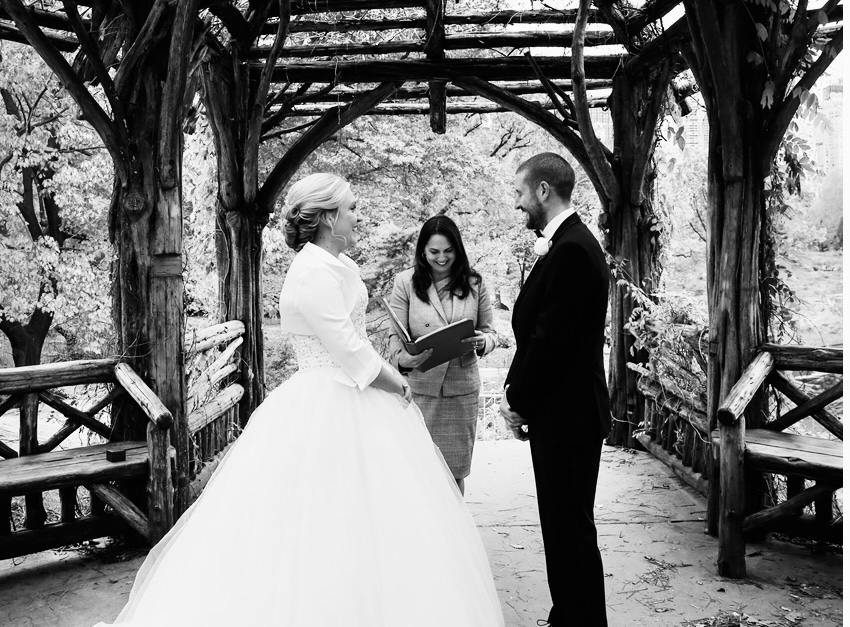
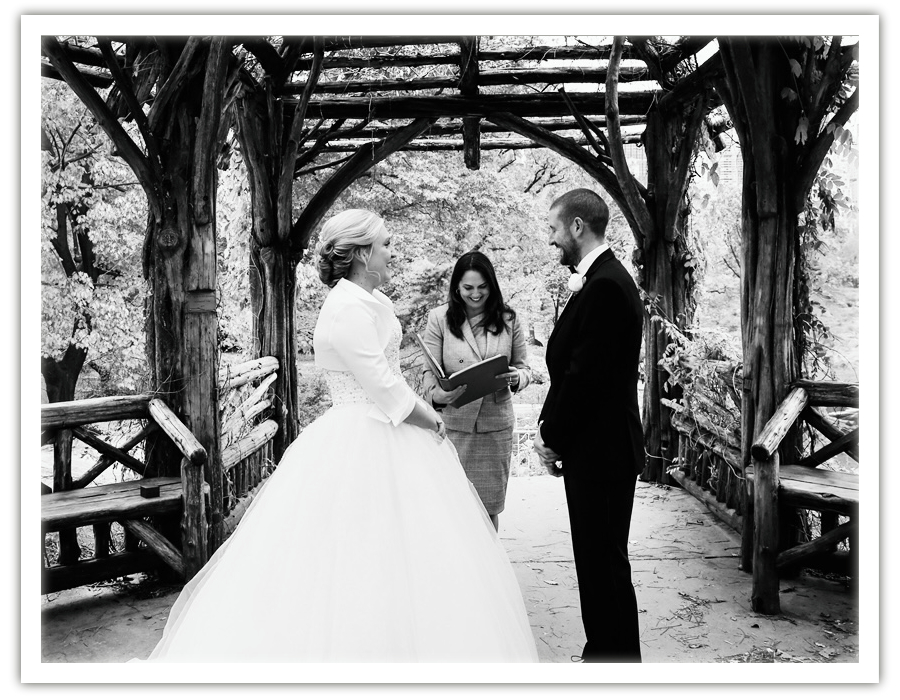
Central park home changes part1 (#42)
* new imagews - cemtral park

* new images - cemtral park

---------

diff --git a/New_York_Central_Park_Weddings.html b/New_York_Central_Park_Weddings.html
@@ -93,58 +93,111 @@
 
     <div class="container">
         <div class="column" style="margin-bottom: 50px;height: 100px;">
-jibber jabber jibber jabber jibber jabber jibber jabber jibber jabber jibber jabber jibber jabber jibber jabber jibber jabber jibber jabber jibber jabber 
+            There is something magical about getting married in Central Park. It can be a lot more affordable and it is
+            the best location in New York City if you are eloping! There are multiple locations to choose from. From Bow
+            Bridge to Bethesda Castle, each spot looks like a rom-com set! There are wooden structures, cast iron
+            structures (all over 100 years old) trees, gardens, lakes and bridges but you are still in the heart of New
+            York City. All locations are perfect year round. Here are some of my favorite locations!
         </div>
     </div>
 
     <div class="container">
         <div class="column">
-            <img src="https://picsum.photos/id/10/400/300" alt="Landscape">
+            <img src="Content/Images/central-park/LadiesPavilion.jpg" alt="Ladies Pavilion">
             <div class="text-panel">
-                <h3>Ladies Pavilion</h3>
-                <p>A beautiful description </p>
+                <h3>Ladies Pavilion (Max 20-25 ppl)</h3>
+                <p>Located at Hernshead on the western shore of The Lake in Central Park at West 75th Street, The Ladies
+                    Pavilion is an ornate, Victorian-style cast-iron shelter. Designed by Jacob Wrey Mould in 1871, it
+                    features a slate roof and decorative ironwork. It is a highly popular, romantic spot for intimate
+                    weddings. Permit required.</p>
             </div>
         </div>
 
         <div class="column">
-            <img src="https://picsum.photos/id/20/400/300" alt="Office">
+            <img src="Content/Images/central-park/central-park-weddings.jpg" alt="Belvedere Castle">
             <div class="text-panel">
-                <h3>Gopstow Bridge</h3>
-                <p>Explore the bridge</p>
+                <h3>Belvedere Castle (Max 20-25 ppl)</h3>
+                <p>Above Shakespeare Gardens sits the iconic Belvedere Castle. If you want a romantic castle type
+                    structure then Belvedere Castle is the perfect spot! You can exchange vows on the castle’s balcony
+                    overlooking the Manhattan Skyline. It is a busy tourist spot so maybe not the location if you want
+                    complete privacy! Permit required.</p>
             </div>
         </div>
 
         <div class="column">
-            <img src="https://picsum.photos/id/30/400/300" alt="Nature">
+            <img src="Content/Images/central-park/BowBridge.jpg" alt="Bow Bridge ">
             <div class="text-panel">
-                <h3>Cop Cot</h3>
-                <p>Deep within yah de ya da, nature thrives in a delicate balance of light and shadow.</p>
+                <h3>Bow Bridge (Max 10-15ppl)</h3>
+                <p>A short walk from Bethesda Terrance, the Bow Bridge is an iconic location for weddings, or even just
+                    photos with the Upper West Side behind you. You can get married on the bridge, however I recommend a
+                    landing to the West of it. Permits not required so first come first served. Be prepared for lots of
+                    cheering from spectators on the bridge when you have that first kiss! Permit Required.</p>
             </div>
         </div>
         <div class="column">
-            <img src="https://picsum.photos/id/10/400/3002" alt="Landscape">
+            <img src="Content/Images/central-park/central-park-weddings.jpg" alt="Bow Bridge Landing">
             <div class="text-panel">
-                <h3>Treehouse of Dreams</h3>
-                <p>Like the theatre, but in a tree.</p>
+                <h3>Bow Bridge Landing (Max 5-10 ppl)</h3>
+                <p>A small wooden structure on the lake with the Bow Bridge as a stunning backdrop. Suitable for very
+                    small elopements. No permit required.
+
             </div>
         </div>
 
         <div class="column">
-            <img src="https://picsum.photos/id/20/400/3003" alt="Office">
+            <img src="Content/Images/central-park/central-park-weddings.jpg" alt="Shakespeare Garden">
             <div class="text-panel">
-                <h3>Shakespeare Garden</h3>
-                <p>To be or not to be wed, that is the question.</p>
+                <h3>Shakespeare Garden (Max 20-25 ppl)</h3>
+                <p>Heading in from the West side, near the Museum of Natural History, Shakespeare Gardens is a beautiful
+                    themed garden that changes with each season. It sits on four acres on a steep incline so bear that
+                    in mind for certain guests. Above it is the Beautiful Belvedere Castle. Permit required.</p>
             </div>
         </div>
 
         <div class="column">
-            <img src="https://picsum.photos/id/30/400/3004" alt="Nature">
+            <img src="Content/Images/central-park/WagnerCove.jpg" alt="Wagner Cove">
             <div class="text-panel">
-                <h3>Wagner Cove</h3>
-                <p>What's the difference between a cove and a cave? An "O".</p>
+                <h3>Wagner Cove (Max 10-15 ppl)</h3>
+                <p>Heading East from Central Park West and 72nd, Wagner Cove is one of my favorite locations in the
+                    Park.
+
+                    It is a hidden gem. It is a wooden structure tucked away in the corner of the lake. It provides
+                    shade and its small size is incredibly romantic. Permit required.
+                </p>
             </div>
         </div>
 
+        <div class="column">
+            <img src="Content/Images/central-park/Gapstow.jpeg" alt="Gapstow Bridge ">
+            <div class="text-panel">
+                <h3>Gapstow Bridge (Max 10-15ppl) </h3>
+                <p>At the north east end of the pond lies another iconic bridge made in 1896 from local stone in the
+                    heart of the Park. Similarly to Bow Bridge it is a heavily populated bridge but you can get married
+                    with the Bridge as a stunning backdrop or stunning New York City skyline views. Permit required.</p>
+            </div>
+        </div>
+        <div class="column">
+            <img src="Content/Images/central-park/copcot.jpeg" alt="Cop Cot">
+            <div class="text-panel">
+                <h3>Cop Cot (Max 50 ppl)</h3>
+                <p>Located near 59th and 6th Avenue, Cop Cot is the perfect wedding venue if you have a larger crowd for
+                    your wedding. It is situated on top of a small hill (bear in mind for certain guests), It features a
+                    large wooden gazebo with built-in bench seating. It offers a private, intimate atmosphere with
+                    beautiful, natural, and urban, year-round scenery. Permit required.
+                </p>
+            </div>
+        </div>
+        <div class="column">
+            <img src="Content/Images/central-park/treehouse.jpeg" alt="Treehouse for Dreaming">
+            <div class="text-panel">
+                <h3>Treehouse for Dreaming (Max 20-25 ppl)</h3>
+                <p>Located between 67 and 68th street and Fifth avenue is the Treehouse for Dreaming (also known as the
+                    Dene Summerhouse). Treehouse for Dreaming is another spot that is a beautiful vine covered gazebo
+                    with a natural, boho type atmosphere. It is secluded and offers beautiful views. Similarly to Cop
+                    Cot, the Treehouse offers bench seating for guests, however it is not suitable for guests with
+                    walking difficulties. No permit required but suggest guests arrive early to seclude the spot.</p>
+            </div>
+        </div>
 </body>
 
 </html>
